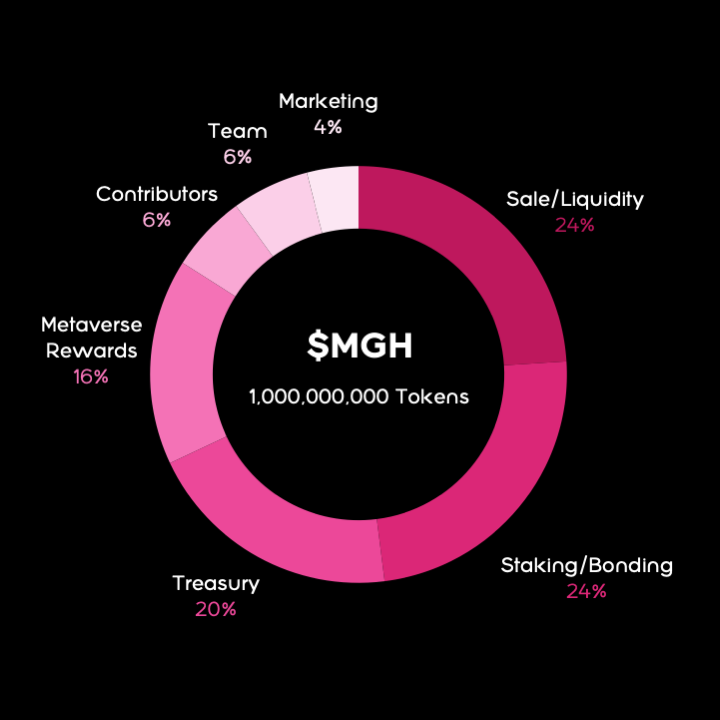
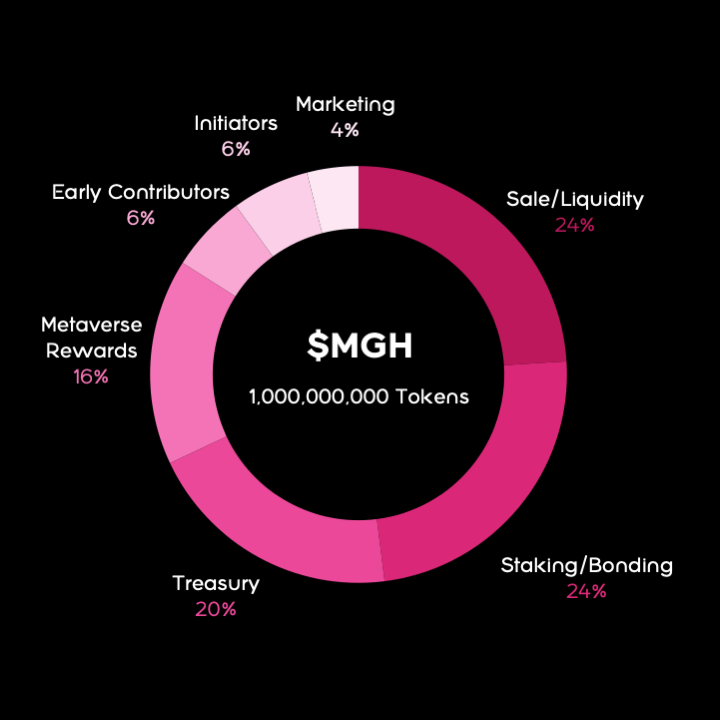
add discord, update tokenomics

Changed region(s): [[0.0611, 0.1222, 0.55, 0.3361]]

diff --git a/components/Footer.tsx b/components/Footer.tsx
@@ -57,6 +57,10 @@ const Footer = () => {
                         <FaTelegramPlane className="social-media-icon" />
                     </a>
 
+                    <a href="https://discord.gg/gARJfmdD" className="cursor-pointer" target="_blank" >
+                        <FaDiscord className="social-media-icon" />
+                    </a>
+
                     <a href="https://www.youtube.com/channel/UC6lHXEEmjGiRmIVmiS0odpw" className="cursor-pointer" target="_blank" >
                         <FaYoutube className="social-media-icon" />
                     </a>
